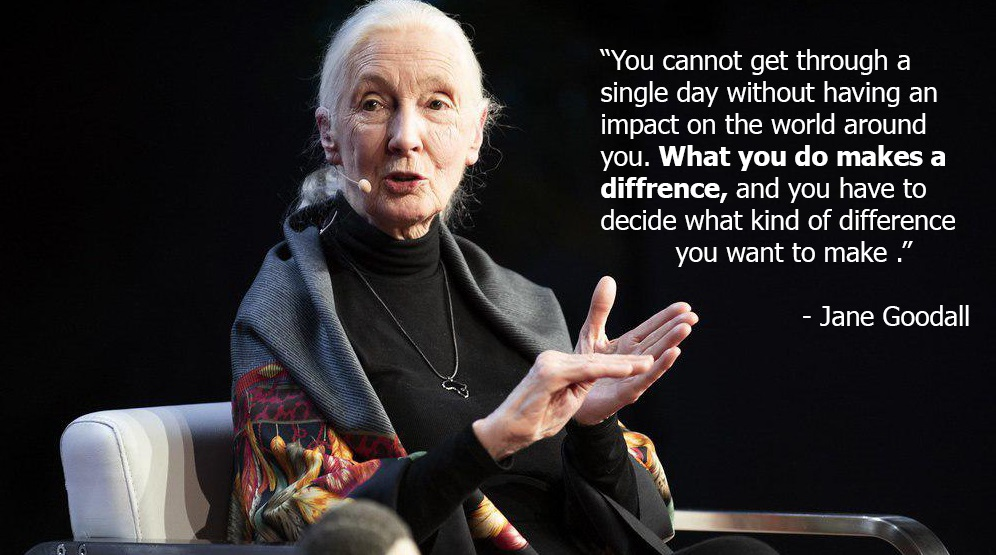
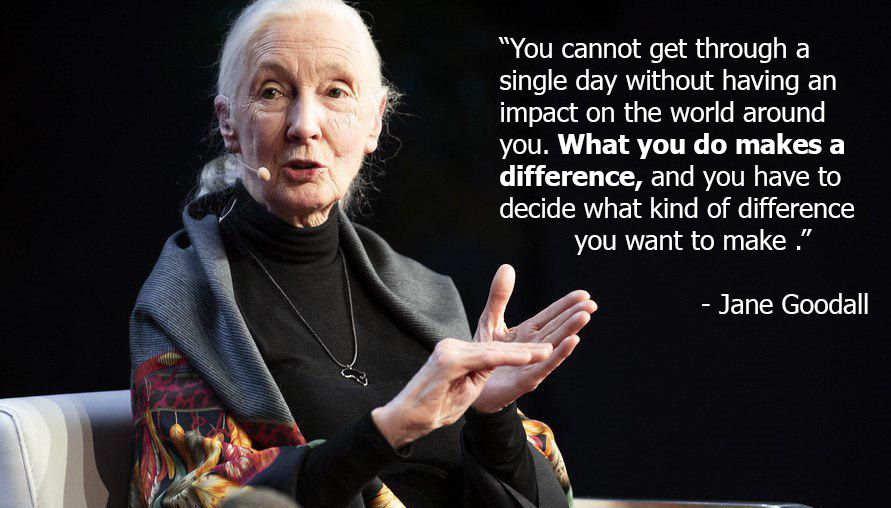
jane goodall quote fixed,navbar fixed,

diff --git a/index/index.html b/index/index.html
@@ -40,12 +40,13 @@
 				<a href="#" class="navbar-brand brand text-center">Empowerange </a>
 			</div>
 			<div class="collapse navbar-collapse navbar-right " id="bs-nav-demo">
-				<ul class="nav navbar-nav text-center">
+        <ul class="nav navbar-nav text-center">
           <li class="active"><a href="../index/index.html" class="active"> Home</a></li>
           <li><a href="../ngo/ngo.html" >NGOs </a></li>
           <li><a href="../mission/mission.html">Mission </a></li>
           <li><a href="../cities/cities.html">Cities </a></li>
-          <li><a href="../team/team.html" style="padding-right:30px;">Team </a></li>
+          <li><a href="../team/team.html" >Team </a></li>
+          <li > <a href=""></a></li>
         </ul>
 			</div>
 		</div>
@@ -123,7 +124,7 @@
     </div>
     <div class="col-sm-6" >
         <div >
-            <img src="../img/jane.jpg"  class=" img-responsive imgProfile "  alt="">
+            <img src="../img/jane.jpg"  class="img img-responsive imgProfile "  alt="">
         </div>
     </div>
 </center>

diff --git a/cities/cities.html b/cities/cities.html
@@ -45,7 +45,8 @@
                             <li><a href="../ngo/ngo.html" >NGOs </a></li>
                             <li><a href="../mission/mission.html">Mission </a></li>
                             <li class="active"><a href="../cities/cities.html">Cities </a></li>
-                            <li><a href="../team/team.html" style="padding-right:30px;">Team </a></li>
+                            <li><a href="../team/team.html">Team </a></li>
+                            <li > <a href=""></a></li>
                         </ul>
                     </div>
                 </div>

diff --git a/blog/blog.html b/blog/blog.html
@@ -46,7 +46,9 @@
                             <li><a href="../ngo/ngo.html" >NGOs </a></li>
                             <li><a href="../mission/mission.html">Mission </a></li>
                             <li><a href="../cities/cities.html">Cities </a></li>
-                            <li><a href="../team/team.html" style="padding-right:30px;">Team </a></li>
+                            <li><a href="../team/team.html">Team </a></li>
+                            <li > <a href=""></a></li>
+
 						</ul>
 					</div>
 				</div>

diff --git a/team/team.html b/team/team.html
@@ -46,7 +46,9 @@
 							<li><a href="../ngo/ngo.html" >NGOs </a></li>
 							<li><a href="../mission/mission.html">Mission </a></li>
 							<li><a href="../cities/cities.html">Cities </a></li>
-							<li class="active"><a href="../team/team.html" style="padding-right:30px;">Team </a></li>
+							<li><a href="../team/team.html">Team </a></li>
+							<li > <a href=""></a></li>
+									  
 						</ul>
 					</div>
 				</div>

diff --git a/mission/mission.html b/mission/mission.html
@@ -46,7 +46,9 @@
           <li><a href="../ngo/ngo.html" >NGOs </a></li>
           <li  class="active"><a href="#">Mission </a></li>
           <li><a href="../cities/cities.html">Cities </a></li>
-          <li><a href="../team/team.html" style="padding-right:30px;">Team </a></li>
+					<li><a href="../team/team.html">Team </a></li>
+          <li > <a href=""></a></li>
+					
       	</ul>
 			</div>
 		</div>

diff --git a/ngo/ngo.html b/ngo/ngo.html
@@ -45,7 +45,9 @@
 							<li class="active"><a href="#" >NGOs </a></li>
 							<li><a href="../mission/mission.html">Mission </a></li>
 							<li><a href="../cities/cities.html">Cities </a></li>
-							<li><a href="../team/team.html" style="padding-right:20px;">Team </a></li>
+							<li><a href="../team/team.html" >Team </a></li>
+							<li > <a href=""></a></li>
+
 						</ul>
 					</div>
 				</div>

diff --git a/style.css b/style.css
@@ -59,10 +59,7 @@ nav li  :hover{
     border-bottom: 3px solid #01CBE1;
     transition: transform .6s;
 }
-.imgProfile{
-    height : 350px;
-    width: 600px;
-}
+
 nav a{
     height: 60px !important;
     width: 100%;

diff --git a/index/style.css b/index/style.css
@@ -12,6 +12,11 @@
  .btn{
    padding: 10px 40px;
  }
+
+ .imgProfile{
+  max-height : 350px;
+  width: 600px;
+}
  
 
 /* tabs styles */
